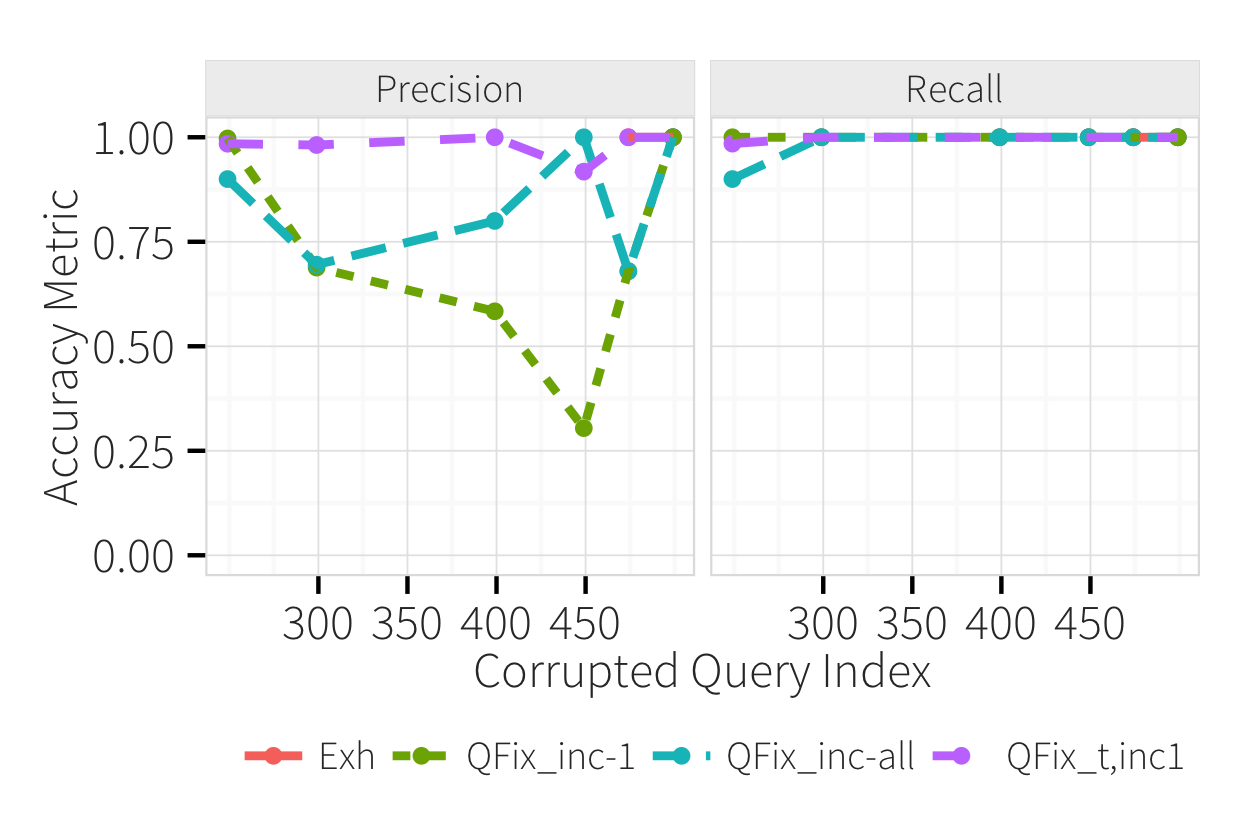
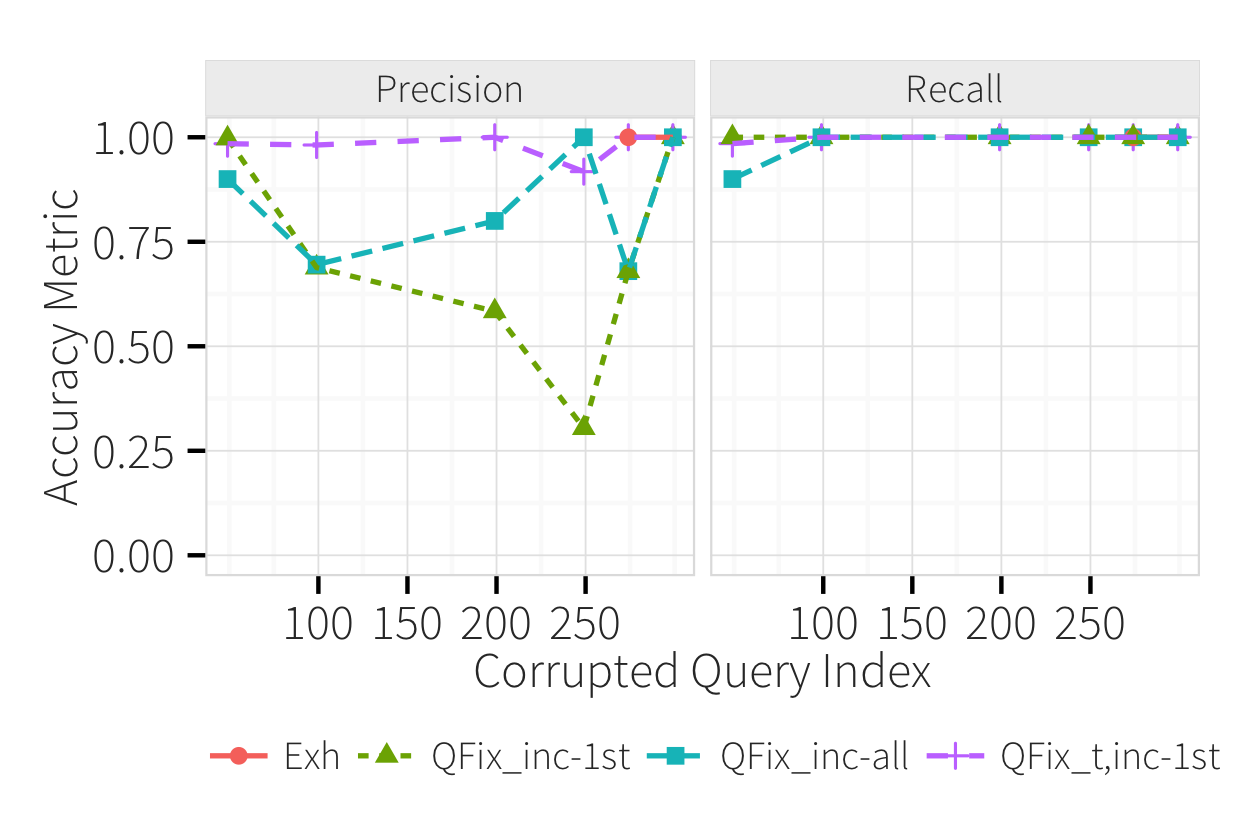
added incremental plots

diff --git a/docs/sigmod15/content/xx-experiments.tex b/docs/sigmod15/content/xx-experiments.tex
@@ -215,7 +215,7 @@ We then establish the difficulty of \texttt{UPDATE} workloads as compared to oth
     \begin{subfigure}[t]{.3\textwidth}
     \includegraphics[width = .95\columnwidth]{figures/incrementalcompare_time}
     \caption{.}
-    \label{f:singlequeryinc} 
+    \label{f:singlequeryinc_time} 
     \end{subfigure}
     \begin{subfigure}[t]{.3\textwidth}
     \includegraphics[width = .95\columnwidth]{figures/placeholder}
@@ -231,7 +231,7 @@ We then establish the difficulty of \texttt{UPDATE} workloads as compared to oth
     \begin{subfigure}[t]{.3\textwidth}
     \includegraphics[width = .95\columnwidth]{figures/incrementalcompare_acc}
     \caption{.}
-    \label{f:singlequeryinc} 
+    \label{f:singlequeryinc_acc} 
     \end{subfigure}
     \begin{subfigure}[t]{.3\textwidth}
     \includegraphics[width = .95\columnwidth]{figures/placeholder}
@@ -252,9 +252,17 @@ up to $q_{40}$.  For example, when we corrupt $3$ queries, we corrupt $q_{0,10,2
 
 \stitle{Single Query Optimization:}
 In this experiment, we evaluate the efficacy of the incremental repair algorithm (Section~\ref{sec:inc})
-in the special case when only one query has been corrupted.  We compare $\sys_{exh,t}$ against
-$\sys_{inc}^{1st}$ and $\sys_{inc}^{all}$ using the default parameters.
-Figure~\ref{f:singlequeryinc} shows \ewu{xxx}.
+in the special case when only one query has been corrupted.  We compare the exhaustive 
+algorithm against $\sys_{inc}^{1st}$ and $\sys_{inc}^{all}$ using the default parameters.
+We also compare against $\sys_{t,inc}^{1st}$ to illustrate the value of the second MILP iteration in tuple slicing.
+Figure~\ref{f:singlequeryinc_time} highlights the scalability limitations of the exhaustive algorithm 
+even $25$ queries in this experiment.  In contrast, the incremental algorithms perform at nearly the same rate
+across the different query indexes.  Figure~\ref{f:singlequeryinc_acc} shows the value of tuple-slicing --
+both basic incremental algorithms have severely degraded precision measures due to their propensity to over-generalize
+-- however the introduction of the second MILP iteration significantly improves the precision.  
+In all algorithms, the recall is near $1$ because the complaint sets are complete and the solver is able to find 
+an assignment in nearly all cases.
+
 
 \stitle{Query Type Experiment:}
 Our final preliminary experiment evaluates the exhaustive, tuple-slicing algorithm 
